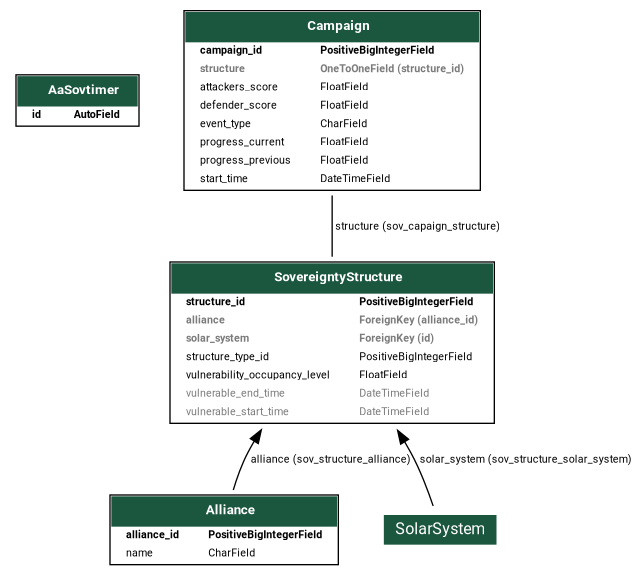
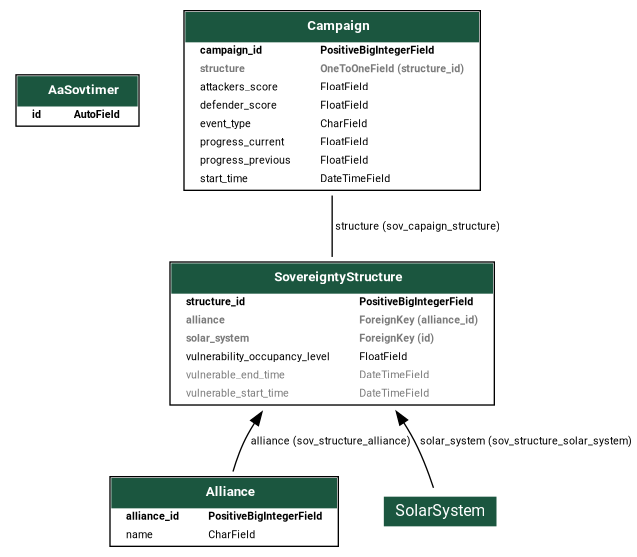
[RELEASE] v4.1.0
## [4.1.0] - 2026-05-19

### Changed

- Switched to new ESI endpoint `sovereignty/systems` to get the sovereignty
  information, which also includes the correct ADMs for each system. This also means
  that sovereignty structures are now updated when changes are available, to ensure
  the ADM information is up to date as well.
- Set ESI compatibility date to `2026-05-19`

Changed region(s): [[0.179, 0.0, 1.0, 1.0], [0.0298, 0.1221, 0.2386, 0.2442]]

diff --git a/sovtimer/__init__.py b/sovtimer/__init__.py
@@ -5,7 +5,7 @@ App init
 # Django
 from django.utils.translation import gettext_lazy as _
 
-__version__ = "4.0.3"
+__version__ = "4.1.0"
 __title__ = "Sovereignty Timer"
 __title_translated__ = _("Sovereignty Timer")
 

diff --git a/README.md b/README.md
@@ -90,7 +90,7 @@ Make sure you're in the virtual environment (venv) of your Alliance Auth install
 Then install the latest version:
 
 ```shell
-pip install aa-sov-timer==4.0.3
+pip install aa-sov-timer==4.1.0
 ```
 
 #### Step 2: Update Your AA Settings<a name="step-2-update-your-aa-settings"></a>
@@ -168,7 +168,7 @@ Once you have completed all previous steps, restart your AA supervisor service t
 Add the app to your `conf/requirements.txt`:
 
 ```text
-aa-sov-timer==4.0.3
+aa-sov-timer==4.1.0
 ```
 
 #### Step 2: Update Your AA Settings<a name="step-2-update-your-aa-settings-1"></a>
@@ -265,7 +265,7 @@ Then run the following commands from your AA project directory (the one that
 contains `manage.py`).
 
 ```shell
-pip install aa-sov-timer==4.0.3
+pip install aa-sov-timer==4.1.0
 
 python manage.py collectstatic
 python manage.py migrate
@@ -278,7 +278,7 @@ Finally, restart your AA supervisor service.
 To update your existing installation of AA Sovereignty Timer, all you need to do is to update the respective line in your `conf/requirements.txt` file to the latest version.
 
 ```text
-aa-sov-timer==4.0.3
+aa-sov-timer==4.1.0
 ```
 
 Now rebuild your containers and restart them:

diff --git a/CHANGELOG.md b/CHANGELOG.md
@@ -44,9 +44,11 @@ Section Order:
 
 <!-- Your changes go here -->
 
+## [4.1.0] - 2026-05-19
+
 ### Changed
 
-- Switched to new ESI endpoint `sovereignty/systems` to get the sovereignty
+- Switched to the new ESI endpoint `sovereignty/systems` to get the sovereignty
   information, which also includes the correct ADMs for each system. This also means
   that sovereignty structures are now updated when changes are available, to ensure
   the ADM information is up to date as well.
@@ -1070,5 +1072,6 @@ And restart your supervisor.
 [4.0.1]: https://github.com/ppfeufer/aa-sov-timer/compare/v4.0.0...v4.0.1 "v4.0.1"
 [4.0.2]: https://github.com/ppfeufer/aa-sov-timer/compare/v4.0.1...v4.0.2 "v4.0.2"
 [4.0.3]: https://github.com/ppfeufer/aa-sov-timer/compare/v4.0.2...v4.0.3 "v4.0.3"
+[4.1.0]: https://github.com/ppfeufer/aa-sov-timer/compare/v4.0.3...v4.1.0 "v4.1.0"
 [alliance auth 3.0.0 release notes]: https://gitlab.com/allianceauth/allianceauth/-/tags/v3.0.0 "Alliance Auth 3.0.0 release notes"
-[in development]: https://github.com/ppfeufer/aa-sov-timer/compare/v4.0.3...HEAD "In Development"
+[in development]: https://github.com/ppfeufer/aa-sov-timer/compare/v4.1.0...HEAD "In Development"